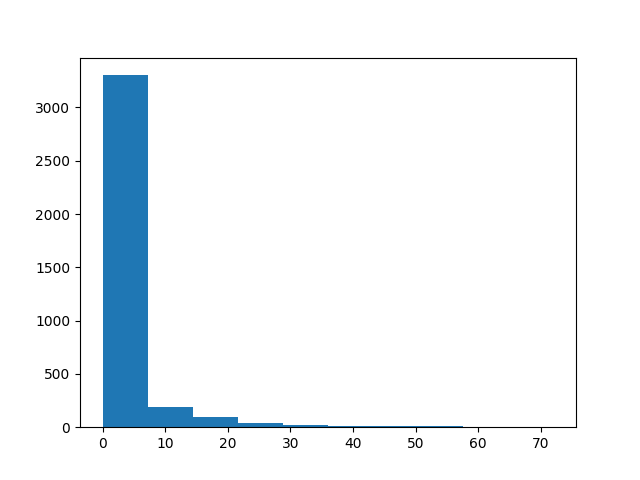
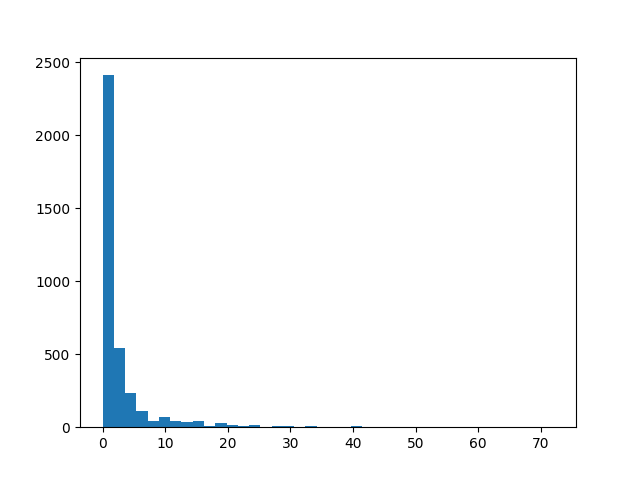
convert from impact to network efficiency

diff --git a/scripts/longitudinal_analysis.py b/scripts/longitudinal_analysis.py
@@ -16,11 +16,14 @@ def longitudinal_extraction(crisis, grouping):
     if crisis == "covid":
         snapshots = [21870, 21930, 21960, 22000, 22100, 22200, 22300, 22370]
         # snapshots = [21870, 21930]
-    degree_data = {}    
-    total_average_degrees = {}
+    # Keys are timeframes, values are a dictionary of group and its global efficiency
+    efficiency_data = {}    
+    # Keys are timeframes, values are global efficiency
+    timeframe_efficiency_data = {}
     previous_timeframe_connections = {}
     baseline_timeframe_connections = {}
     final_timeframe_connections = {}
+    # A dictionary with keys being companies and values of dictionaries of lost companies and their timestamp
     connections_lost = defaultdict(dict)
     connections_gained = defaultdict(dict)
     for i, timeframe in enumerate(snapshots):
@@ -41,7 +44,7 @@ def longitudinal_extraction(crisis, grouping):
         for group, company_list in filter.items():
             if len(company_list) == 0:
                 continue
-            average_degree = 0
+            # average_degree = 0
             for company in company_list:
                 neighbors = set(G.neighbors(company))
                 if company in previous_timeframe_connections:
@@ -66,13 +69,15 @@ def longitudinal_extraction(crisis, grouping):
                 final_timeframe_connections[company] =  neighbors
                 previous_timeframe_connections[company] = neighbors
                 degree = len(neighbors)
-                average_degree += degree
-                total_average_degree += degree
-            snapshot_data[group] = average_degree/len(company_list)
-        degree_data[timeframe] = snapshot_data
-        total_average_degrees[timeframe] = total_average_degree/len(G.nodes)
+                # average_degree += degree
+                # total_average_degree += degree
+            # snapshot_data[group] = average_degree/len(company_list)
+            snapshot_data[group] = nx.global_efficiency(G.subgraph(company_list))
+        efficiency_data[timeframe] = snapshot_data
+        # timeframe_efficiency_data[timeframe] = total_average_degree/len(G.nodes)
+        timeframe_efficiency_data[timeframe] = nx.global_efficiency(G)
     
-    # Creates and plots impact data
+    # Creates and plots impact/efficiency data
     impact_data = {}
     fig = plt.figure()
     plot = fig.add_subplot(111)
@@ -81,14 +86,14 @@ def longitudinal_extraction(crisis, grouping):
         keep_group = True
         x_coords = []
         y_coords = []
-        # Removes a group if it's not in every timeframe
+        # Removes a group if it's not in every timeframe, applies especially to companies
         for timeframe in snapshots:
-            if group not in degree_data[timeframe]:
+            if group not in efficiency_data[timeframe]:
                 keep_group = False
                 groups_to_remove.add(group)
                 continue
             x_coords.append(timeframe)
-            y_coords.append(degree_data[timeframe][group])
+            y_coords.append(efficiency_data[timeframe][group])
         if keep_group:
             baseline = y_coords[0]
             impact = max(baseline - min(y_coords), 0)
@@ -101,7 +106,7 @@ def longitudinal_extraction(crisis, grouping):
             data.append(total_impact)
             impact_data[group] = data
             plot.plot(x_coords, y_coords, label=group)
-    plot.plot(snapshots, list(total_average_degrees.values()), linewidth="5", markersize="6")
+    plot.plot(snapshots, list(timeframe_efficiency_data.values()), linewidth="5", markersize="6")
 
     # This keeps the impact data following the same criteria as the connections data
     for group in groups_to_remove:
@@ -109,14 +114,19 @@ def longitudinal_extraction(crisis, grouping):
 
     # Counts the makeup of connections over time, creating connections_data file. 
     connections_data = {}
-    joined_connections = {}
+    companies_connections_change = {}
     total_degree_difference = 0
+    total_sum = 0
+    total_reestablished_links = 0
+    total_unestablished_links = 0
+    total_lost_links = 0
+    total_gained_links = 0
     for group, company_list in filter.items():
-        total_sum = 0
-        total_reestablished_links = 0
-        total_unestablished_links = 0
-        total_lost_links = 0
-        total_gained_links = 0
+        group_sum = 0
+        group_reestablished_links = 0
+        group_unestablished_links = 0
+        group_lost_links = 0
+        group_gained_links = 0
         for company in company_list:
             # Creates connections_change file by combining raw timestamps and company changes
             common_links = set(connections_lost[company].keys()).intersection(set(connections_gained[company].keys()))
@@ -124,7 +134,7 @@ def longitudinal_extraction(crisis, grouping):
             unestablished_links = set()
             lost_links = set(connections_lost[company]).difference(common_links)
             gained_links = set(connections_gained[company]).difference(common_links)
-            joined_connections[company] = {"lost":{}, "gained":{}, "unestablished":{}, "reestablished": {}}
+            companies_connections_change[company] = {"lost":{}, "gained":{}, "unestablished":{}, "reestablished": {}}
             for company_link in common_links:
                 if company_link in baseline_timeframe_connections[company]:
                     if company_link in final_timeframe_connections[company]:
@@ -147,37 +157,51 @@ def longitudinal_extraction(crisis, grouping):
                 # else:
                 #     print("MAJOR DATA FUCKUP!!", company, company_link)
             for link in lost_links:
-                joined_connections[company]["lost"][link] = connections_lost[company][link]
+                companies_connections_change[company]["lost"][link] = connections_lost[company][link]
             for link in gained_links:
-                joined_connections[company]["gained"][link] = connections_gained[company][link]
+                companies_connections_change[company]["gained"][link] = connections_gained[company][link]
             for link in unestablished_links:
-                joined_connections[company]["unestablished"][link] = connections_lost[company][link]
+                companies_connections_change[company]["unestablished"][link] = connections_lost[company][link]
             for link in reestablished_links:
-                joined_connections[company]["reestablished"][link] = connections_gained[company][link]
+                companies_connections_change[company]["reestablished"][link] = connections_gained[company][link]
             # reestablished_links = len(connections_lost[company].intersection(connections_gained[company]))
-            total_reestablished_links += len(reestablished_links)
-            total_unestablished_links += len(unestablished_links)
-            total_lost_links += len(lost_links)
-            total_gained_links += len(gained_links)
-            total_sum += len(unestablished_links) + len(reestablished_links) + len(lost_links) + len(gained_links)
+            group_reestablished_links += len(reestablished_links)
+            group_unestablished_links += len(unestablished_links)
+            group_lost_links += len(lost_links)
+            group_gained_links += len(gained_links)
+            group_sum += len(unestablished_links) + len(reestablished_links) + len(lost_links) + len(gained_links)
             # print(connections_lost[company], connections_gained[company], connections_lost[company].intersection(connections_gained[company]), company)
-        if total_sum == 0:
+        if group_sum == 0:
             continue
-        degree_difference = total_gained_links-total_lost_links
+        total_reestablished_links += group_reestablished_links
+        total_unestablished_links += group_unestablished_links
+        total_lost_links += group_lost_links
+        total_gained_links += group_gained_links
+        total_sum += group_sum
+        degree_difference = group_gained_links-group_lost_links
         total_degree_difference += degree_difference
-        connections_data[group] = {"unestablished": total_unestablished_links/total_sum, "reestablished" : total_reestablished_links/total_sum, "lost" : total_lost_links/total_sum, "gained" : total_gained_links/total_sum, "degree_difference":degree_difference}
+        connections_data[group] = {"unestablished": group_unestablished_links/group_sum, "reestablished" : group_reestablished_links/group_sum, "lost" : group_lost_links/group_sum, "gained" : group_gained_links/group_sum, "degree_difference":degree_difference}
+    
+    # Regardless of grouping, show the change in connections by company
     with open(f"../data/{crisis}_companies_connections_change.json", "w") as f:
-        json.dump(joined_connections, f, indent=4)
+        json.dump(companies_connections_change, f, indent=4)
+    # Using a grouping filter, aggregate/average the makeup of connection changes in group summary data
     with open(f"../data/{crisis}_{grouping}_connections_data.json", "w") as f:
         json.dump(connections_data, f, indent=4)
+    # Calculate impacts/now efficiencies by group
     with open(f"../data/{crisis}_{grouping}_impact_data.json", "w") as f:
         json.dump(impact_data, f, indent=4)
 
-    print(total_degree_difference)
+    print(f"Total degree sum (I think): {total_sum}")
+    print(f"Total lost: {total_lost_links}")
+    print(f"Total gained: {total_gained_links}")
+    print(f"Total unnestablished: {total_unestablished_links}")
+    print(f"Total reestablished: {total_reestablished_links}")
+    print(f"Total degree difference: {total_degree_difference}")
     # fig.canvas.mpl_connect('motion_notify_event', on_plot_hover)           
     fig.show()
-    if len(filter) < 10:
-        fig.legend(loc='upper left')
+    # if len(filter) < 25:
+    fig.legend(loc='upper left')
     plt.savefig(f"../graphs/{crisis}_crisis_analysis_by_{grouping}.png")
 
 def longitudinal_analysis(crisis, grouping):
@@ -208,14 +232,15 @@ def longitudinal_analysis(crisis, grouping):
     plt.ylabel("Total impact")
     plt.savefig(f"../graphs/{crisis}_{grouping}_absolute_total_impact.png")
     fig.clear()
-    plt.hist(absolute_impacts)
+    plt.hist(absolute_impacts, bins=40)
     plt.savefig(f"../graphs/{crisis}_{grouping}_absolute_impact_histogram.png")
     fig.clear()
-    plt.hist(total_impacts)
+    plt.hist(total_impacts,  bins=40)
     plt.savefig(f"../graphs/{crisis}_{grouping}_total_impact_histogram.png")
     fig.clear()
 
     # TODO: MAYBE SPLIT THIS BY GROUPING?
+    # Analyze change in the different types of connection changes over time
     lost_histogram = {timeframe : 0 for timeframe in snapshots}
     gained_histogram = {timeframe : 0 for timeframe in snapshots}
     unestablished_histogram = {timeframe : 0 for timeframe in snapshots}
@@ -235,5 +260,5 @@ def longitudinal_analysis(crisis, grouping):
 if __name__ == "__main__":
     crisis = sys.argv[1]
     grouping = sys.argv[2]
-    # longitudinal_extraction(crisis, grouping)
-    longitudinal_analysis(crisis, grouping)
+    longitudinal_extraction(crisis, grouping)
+    # longitudinal_analysis(crisis, grouping)
